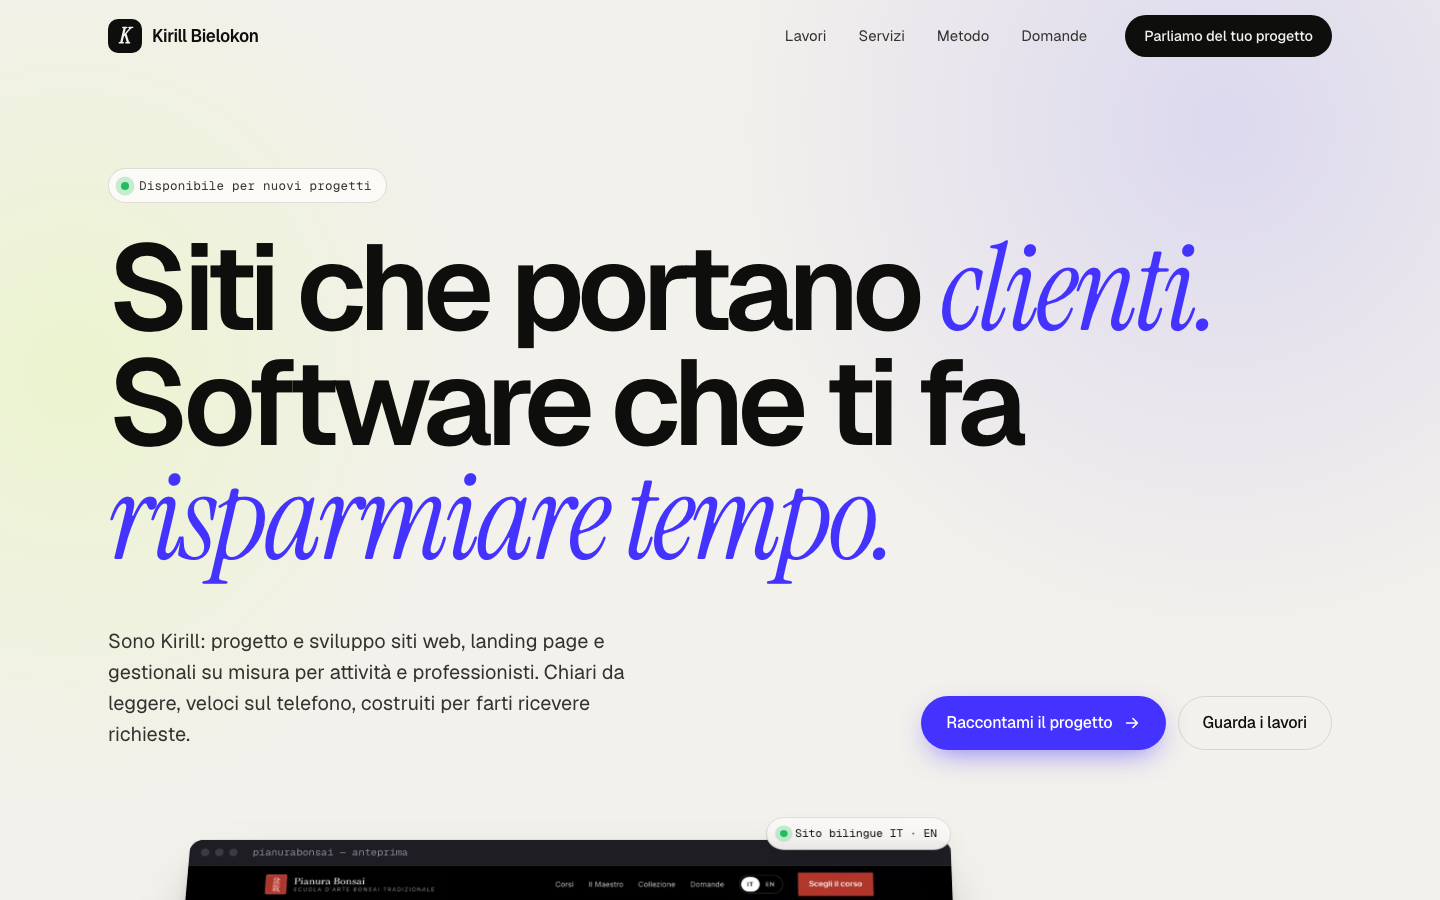
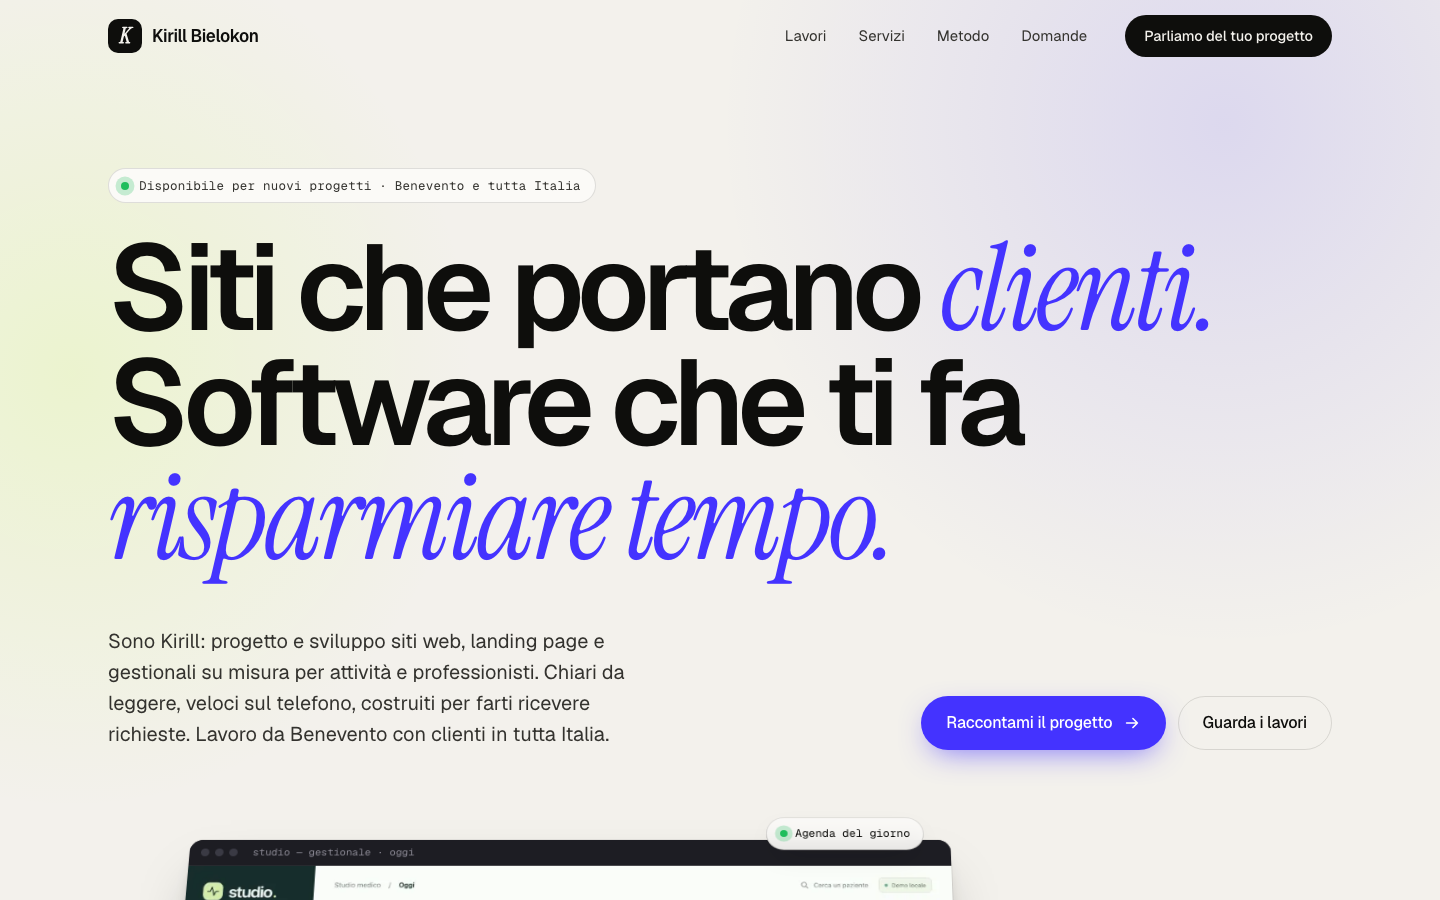
Hide Pianura Bonsai case study until the client approves it
Remove its section and screenshots, show the management app in the hero.

diff --git a/index.html b/index.html
@@ -75,8 +75,8 @@
       }
     </script>
 
-    <link rel="preload" as="image" href="/images/lavori/bonsai-home-960.webp" fetchpriority="high"
-      imagesrcset="/images/lavori/bonsai-home-960.webp 960w, /images/lavori/bonsai-home-1600.webp 1600w"
+    <link rel="preload" as="image" href="/images/lavori/gestionale-oggi-960.webp" fetchpriority="high"
+      imagesrcset="/images/lavori/gestionale-oggi-960.webp 960w, /images/lavori/gestionale-oggi-1600.webp 1600w"
       imagesizes="(min-width: 1100px) 760px, 90vw" />
     <script type="module" src="/src/site.js"></script>
   </head>
@@ -144,27 +144,27 @@
         <div class="stage wrap" data-stage aria-hidden="true">
           <div class="stage__inner" data-tilt>
             <figure class="device device--browser stage__main">
-              <div class="device__bar"><i></i><i></i><i></i><span>pianurabonsai — anteprima</span></div>
+              <div class="device__bar"><i></i><i></i><i></i><span>studio — gestionale · oggi</span></div>
               <img
-                src="/images/lavori/bonsai-home-960.webp"
-                srcset="/images/lavori/bonsai-home-960.webp 960w, /images/lavori/bonsai-home-1600.webp 1600w"
+                src="/images/lavori/gestionale-oggi-960.webp"
+                srcset="/images/lavori/gestionale-oggi-960.webp 960w, /images/lavori/gestionale-oggi-1600.webp 1600w"
                 sizes="(min-width: 1100px) 760px, 90vw"
                 width="1600" height="1000" alt="" fetchpriority="high" />
             </figure>
             <figure class="device device--browser stage__side">
-              <div class="device__bar"><i></i><i></i><i></i><span>studio — gestionale</span></div>
+              <div class="device__bar"><i></i><i></i><i></i><span>nuova visita</span></div>
               <img
-                src="/images/lavori/gestionale-oggi-960.webp"
-                srcset="/images/lavori/gestionale-oggi-960.webp 960w, /images/lavori/gestionale-oggi-1600.webp 1600w"
+                src="/images/lavori/gestionale-visita-960.webp"
+                srcset="/images/lavori/gestionale-visita-960.webp 960w, /images/lavori/gestionale-visita-1600.webp 1600w"
                 sizes="(min-width: 1100px) 520px, 60vw"
                 width="1600" height="1000" alt="" loading="lazy" />
             </figure>
             <figure class="device device--phone stage__phone">
-              <img src="/images/lavori/bonsai-mobile-420.webp"
-                srcset="/images/lavori/bonsai-mobile-420.webp 420w, /images/lavori/bonsai-mobile-720.webp 720w"
+              <img src="/images/lavori/gestionale-mobile-420.webp"
+                srcset="/images/lavori/gestionale-mobile-420.webp 420w, /images/lavori/gestionale-mobile-720.webp 720w"
                 sizes="200px" width="720" height="1558" alt="" loading="lazy" />
             </figure>
-            <div class="chip-float chip-float--a"><span class="dot"></span>Sito bilingue IT · EN</div>
+            <div class="chip-float chip-float--a"><span class="dot"></span>Agenda del giorno</div>
             <div class="chip-float chip-float--b"><span class="dot dot--lime"></span>Nota di visita dettata</div>
           </div>
         </div>
@@ -189,64 +189,18 @@
         <div class="wrap">
           <div class="section-head">
             <p class="eyebrow reveal">Lavori selezionati</p>
-            <h2 class="section-title reveal" id="lavori-title">Progetti reali, <em>in lavorazione.</em></h2>
+            <h2 class="section-title reveal" id="lavori-title">Lavori <em>selezionati.</em></h2>
             <p class="section-lead reveal">
-              Due progetti su cui sto lavorando in questi mesi, presentati come proposta a chi li
-              userà, più alcuni studi personali per mostrare come lavoro su settori diversi.
+              Un gestionale su cui sto lavorando in questi mesi e alcuni studi personali, per
+              mostrare come lavoro su settori e linguaggi diversi.
             </p>
           </div>
 
-          <!-- CASE 1 -->
-          <article class="case" aria-labelledby="case-bonsai">
+          <!-- CASE -->
+          <article class="case" aria-labelledby="case-studio">
             <div class="case__text">
               <div class="case__meta reveal">
                 <span class="case__num">01</span>
-                <span class="status status--dev"><span class="dot"></span>Proposta in corso</span>
-              </div>
-              <h3 class="case__title reveal" id="case-bonsai">Pianura Bonsai</h3>
-              <p class="case__kicker reveal">Sito web · Scuola d'arte bonsai · Venezia Mestre</p>
-              <p class="case__lead reveal">
-                Per una scuola di bonsai tradizionale giapponese ho progettato un sito che fa
-                capire in pochi secondi <em>quale corso scegliere</em> e rende l'iscrizione
-                immediata, anche dal telefono.
-              </p>
-              <dl class="case__facts reveal">
-                <div><dt>La sfida</dt><dd>Quattro formule di corso diverse, un pubblico che va dal principiante all'appassionato, e chi non abita vicino a Mestre.</dd></div>
-                <div><dt>La soluzione</dt><dd>Un selettore “Quale fa per te?” che porta al corso giusto, prossime date in evidenza, collezione fotografica e contatto diretto in un tocco.</dd></div>
-              </dl>
-              <ul class="tags reveal">
-                <li>Design su misura</li><li>Bilingue IT · EN</li><li>SEO locale</li><li>Mobile first</li><li>Galleria</li>
-              </ul>
-            </div>
-            <div class="case__media">
-              <figure class="device device--browser reveal">
-                <div class="device__bar"><i></i><i></i><i></i><span>Home</span></div>
-                <img src="/images/lavori/bonsai-home-960.webp"
-                  srcset="/images/lavori/bonsai-home-960.webp 960w, /images/lavori/bonsai-home-1600.webp 1600w"
-                  sizes="(min-width: 1100px) 680px, 92vw" width="1600" height="1000" loading="lazy"
-                  alt="Homepage del sito Pianura Bonsai: titolo “Impara il Bonsai. Impara dal Bonsai.” accanto a un ginepro su sfondo nero" />
-              </figure>
-              <figure class="device device--browser reveal case__media-offset">
-                <div class="device__bar"><i></i><i></i><i></i><span>I corsi</span></div>
-                <img src="/images/lavori/bonsai-corsi-960.webp"
-                  srcset="/images/lavori/bonsai-corsi-960.webp 960w, /images/lavori/bonsai-corsi-1600.webp 1600w"
-                  sizes="(min-width: 1100px) 680px, 92vw" width="1600" height="1000" loading="lazy"
-                  alt="Sezione corsi: quattro formule con foto e il selettore “Quale fa per te?”" />
-              </figure>
-              <figure class="device device--phone case__phone reveal">
-                <img src="/images/lavori/bonsai-mobile-420.webp"
-                  srcset="/images/lavori/bonsai-mobile-420.webp 420w, /images/lavori/bonsai-mobile-720.webp 720w"
-                  sizes="220px" width="720" height="1558" loading="lazy"
-                  alt="Il sito Pianura Bonsai visto da smartphone" />
-              </figure>
-            </div>
-          </article>
-
-          <!-- CASE 2 -->
-          <article class="case case--flip" aria-labelledby="case-studio">
-            <div class="case__text">
-              <div class="case__meta reveal">
-                <span class="case__num">02</span>
                 <span class="status status--dev"><span class="dot"></span>Prototipo</span>
               </div>
               <h3 class="case__title reveal" id="case-studio">Studio</h3>

diff --git a/tests/portfolio.spec.js b/tests/portfolio.spec.js
@@ -25,7 +25,6 @@ test("content is in the HTML for search engines, without JavaScript", async ({ b
   const page = await ctx.newPage();
   await page.goto("/");
   await expect(page.locator("h1")).toContainText("Siti che portano");
-  await expect(page.getByRole("heading", { name: "Pianura Bonsai" })).toBeVisible();
   await expect(page.getByRole("heading", { name: "Studio", exact: true })).toBeVisible();
   // Reveal animations must not hide content when JS is off.
   await expect(page.locator(".case__lead").first()).toHaveCSS("opacity", "1");

diff --git a/README.md b/README.md
@@ -29,7 +29,7 @@ Pagina **statica** (`index.html`): tutti i testi sono nell'HTML, quindi Google l
 - `index.html`: contenuti, meta SEO, Open Graph e dati strutturati `ProfessionalService` (JSON-LD).
 - `src/site.css`: carta + inchiostro + un accento elettrico (`--accent`). Font Geist, Geist Mono e Instrument Serif corsivo, tutti locali.
 - `src/site.js`: comparsa al scroll, inclinazione 3D della scena in apertura, menu mobile, FAQ, pulsante WhatsApp flottante e brief che prepara il messaggio per WhatsApp o email (nessun dato salvato o inviato dal sito). Rispetta “riduci movimento”.
-- `public/images/lavori/`: schermate WebP dei progetti reali (Pianura Bonsai, gestionale Studio) con dati di prova.
+- `public/images/lavori/`: schermate WebP del gestionale Studio, con soli dati di prova.
 - `public/images/*.svg`: concept degli studi personali (Forma, Aether, Campo).
 
 ### Statistiche visite
